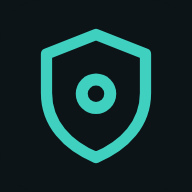
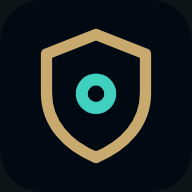
Design aux couleurs du client LoL (or hextech, bleu abysse)
Claude-Session: https://claude.ai/code/session_01Hp4PGG5JkqxKGNCX4NxKJy

Changed region(s): [[0.1875, 0.1562, 0.8125, 0.8438]]

diff --git a/index.html b/index.html
@@ -4,7 +4,7 @@
 <meta charset="utf-8">
 <meta name="viewport" content="width=device-width, initial-scale=1, viewport-fit=cover">
 <title>Coach Support</title>
-<meta name="theme-color" content="#0d1418">
+<meta name="theme-color" content="#010a13">
 <meta name="apple-mobile-web-app-capable" content="yes">
 <meta name="apple-mobile-web-app-status-bar-style" content="black-translucent">
 <meta name="apple-mobile-web-app-title" content="Coach Support">
@@ -13,16 +13,16 @@
 <link rel="apple-touch-icon" href="icon-192.png">
 <link rel="preconnect" href="https://fonts.googleapis.com">
 <link rel="preconnect" href="https://fonts.gstatic.com" crossorigin>
-<link rel="stylesheet" href="https://fonts.googleapis.com/css2?family=Barlow+Condensed:wght@500;600;700&family=Barlow:wght@400;500;600&display=swap">
+<link rel="stylesheet" href="https://fonts.googleapis.com/css2?family=Cinzel:wght@600;700;800&family=Barlow:wght@400;500;600&display=swap">
 <style>
-/* Layout: one-column phone app, sticky header, content cards, fixed bottom tab bar. Dark "vision" palette: deep teal-black ground, ward-teal accent, control-ward pink for danger, gold for objectives. */
+/* Layout: one-column phone app, sticky header, content cards, fixed bottom tab bar. Palette of the game client: abyss blue-black ground, hextech gold frames and titles, hextech teal for wards and actions. */
 :root{
-  --bg:#0d1418; --bg2:#121c21; --card:#16232a; --card2:#1c2c34; --line:#25363f;
-  --fg:#e6eef0; --mute:#8ea3ab; --dim:#5d727b;
-  --ward:#3fd0c0; --ward-ink:#062a27; --gold:#e3b55a; --pink:#ff5d8f; --good:#5fd38a; --bad:#ff6b5e; --warn:#f2b14a;
-  --display:"Barlow Condensed","Arial Narrow",system-ui,sans-serif;
+  --bg:#010a13; --bg2:#091428; --card:#0a1428; --card2:#1e2328; --line:#3c3c41; --gline:#785a28;
+  --fg:#f0e6d2; --mute:#a09b8c; --dim:#6b6a63;
+  --ward:#0ac8b9; --ward-ink:#010a13; --gold:#c8aa6e; --gold2:#f0e6d2; --pink:#e84057; --good:#0acbe6; --bad:#e84057; --warn:#c8aa6e;
+  --display:"Cinzel","Marcellus SC",Georgia,serif;
   --body:"Barlow",system-ui,-apple-system,"Segoe UI",Roboto,sans-serif;
-  --r:12px;
+  --r:4px;
   color-scheme:dark;
 }
 *{box-sizing:border-box}
@@ -53,19 +53,19 @@ p{margin:0}
 
 /* tab bar */
 nav.tabs{position:fixed;left:0;right:0;bottom:0;z-index:30;background:var(--bg2);border-top:1px solid var(--line);display:grid;grid-template-columns:repeat(5,1fr);padding:6px max(6px,env(safe-area-inset-right,0px)) calc(6px + env(safe-area-inset-bottom,0px)) max(6px,env(safe-area-inset-left,0px))}
-nav.tabs button{background:none;border:0;display:flex;flex-direction:column;align-items:center;gap:3px;padding:6px 2px;border-radius:10px;color:var(--dim);font:600 12px/1 var(--display);letter-spacing:.06em;text-transform:uppercase}
+nav.tabs button{background:none;border:0;display:flex;flex-direction:column;align-items:center;gap:3px;padding:6px 2px;border-radius:4px;color:var(--dim);font:600 12px/1 var(--display);letter-spacing:.06em;text-transform:uppercase}
 nav.tabs button svg{width:22px;height:22px}
 nav.tabs button[aria-selected="true"]{color:var(--ward);background:rgba(63,208,192,.08)}
 
 /* buttons, inputs */
-.btn{border:1px solid var(--line);background:var(--card2);border-radius:10px;padding:10px 14px;font-weight:600;min-height:44px}
+.btn{border:1px solid var(--line);background:var(--card2);border-radius:4px;padding:10px 14px;font-weight:600;min-height:44px}
 .btn.primary{background:var(--ward);border-color:var(--ward);color:var(--ward-ink)}
 .btn.ghost{background:none}
-.btn.small{min-height:34px;padding:6px 10px;font-size:13px}
+.btn.small{min-height:38px;padding:6px 10px;font-size:12px}
 .btn:focus-visible,input:focus-visible,select:focus-visible,.slot:focus-visible,.pick:focus-visible{outline:2px solid var(--ward);outline-offset:2px}
-input[type=text],input[type=url],input[type=search],select{background:var(--bg2);border:1px solid var(--line);border-radius:10px;padding:10px 12px;min-height:44px;width:100%}
+input[type=text],input[type=url],input[type=search],select{background:var(--bg2);border:1px solid var(--line);border-radius:4px;padding:10px 12px;min-height:44px;width:100%}
 label.f{display:flex;flex-direction:column;gap:6px;font-size:13px;color:var(--mute)}
-.seg{display:inline-flex;background:var(--bg2);border:1px solid var(--line);border-radius:10px;padding:3px}
+.seg{display:inline-flex;background:var(--bg2);border:1px solid var(--line);border-radius:4px;padding:3px}
 .seg button{border:0;background:none;padding:7px 12px;border-radius:8px;font-weight:600;color:var(--mute)}
 .seg button[aria-pressed="true"]{background:var(--card2);color:var(--fg)}
 .side-blue[aria-pressed="true"]{color:#6fb4ff!important}
@@ -73,7 +73,7 @@ label.f{display:flex;flex-direction:column;gap:6px;font-size:13px;color:var(--mu
 
 /* champion slots */
 .slots{display:grid;grid-template-columns:repeat(5,1fr);gap:8px}
-.slot{background:var(--bg2);border:1px dashed var(--line);border-radius:10px;padding:6px 2px;display:flex;flex-direction:column;align-items:center;gap:4px;min-width:0}
+.slot{background:var(--bg2);border:1px dashed var(--line);border-radius:4px;padding:6px 2px;display:flex;flex-direction:column;align-items:center;gap:4px;min-width:0}
 .slot.filled{border-style:solid}
 .slot .ic{width:44px;height:44px;border-radius:8px;background:var(--card2);display:grid;place-items:center;color:var(--dim);font-size:20px;overflow:hidden}
 .slot .ic img{width:100%;height:100%;object-fit:cover}
@@ -83,7 +83,7 @@ label.f{display:flex;flex-direction:column;gap:6px;font-size:13px;color:var(--mu
 
 /* ranking */
 .rank{display:flex;flex-direction:column;gap:8px}
-.ritem{display:grid;grid-template-columns:48px 1fr auto;gap:10px;align-items:center;background:var(--bg2);border:1px solid var(--line);border-radius:10px;padding:8px}
+.ritem{display:grid;grid-template-columns:48px 1fr auto;gap:10px;align-items:center;background:var(--bg2);border:1px solid var(--line);border-radius:4px;padding:8px}
 .ritem.top1{border-color:var(--ward)}
 .ritem img,.ritem .ph{width:48px;height:48px;border-radius:8px;object-fit:cover;background:var(--card2)}
 .ritem .nm{font:600 17px/1.1 var(--display);letter-spacing:.02em}
@@ -104,7 +104,7 @@ details.why-more ul{margin:6px 0 0;padding-left:18px;font-size:12px;color:var(--
 ul.tips{margin:0;padding-left:18px;display:flex;flex-direction:column;gap:6px}
 ul.tips li{padding-left:2px}
 .items{display:flex;flex-wrap:wrap;gap:8px}
-.item{display:flex;align-items:center;gap:8px;background:var(--bg2);border:1px solid var(--line);border-radius:10px;padding:6px 10px 6px 6px;font-size:13px;min-width:0}
+.item{display:flex;align-items:center;gap:8px;background:var(--bg2);border:1px solid var(--line);border-radius:4px;padding:6px 10px 6px 6px;font-size:13px;min-width:0}
 .item img{width:34px;height:34px;border-radius:6px}
 .item small{display:block;color:var(--dim);font-size:11px}
 .steps{display:flex;align-items:center;gap:6px;flex-wrap:wrap}
@@ -112,7 +112,7 @@ ul.tips li{padding-left:2px}
 
 /* botlane verdict */
 .phases{display:grid;grid-template-columns:repeat(3,1fr);gap:8px}
-.phase{background:var(--bg2);border:1px solid var(--line);border-radius:10px;padding:10px;text-align:center}
+.phase{background:var(--bg2);border:1px solid var(--line);border-radius:4px;padding:10px;text-align:center}
 .phase b{display:block;font:700 18px/1.1 var(--display);text-transform:uppercase}
 .phase small{color:var(--dim);font-size:11px;text-transform:uppercase;letter-spacing:.06em}
 .phase.adv{border-color:rgba(95,211,138,.5)} .phase.adv b{color:var(--good)}
@@ -139,7 +139,7 @@ ul.tips li{padding-left:2px}
 .ev.obj .dot i{border-color:var(--gold)}
 .ev.danger .dot i{border-color:var(--pink)}
 .ev.lane .dot i{border-color:#8aa4ff}
-.ev .body{background:var(--card);border:1px solid var(--line);border-radius:10px;padding:9px 11px;min-width:0}
+.ev .body{background:var(--card);border:1px solid var(--line);border-radius:4px;padding:9px 11px;min-width:0}
 .ev .body b{font:600 16px/1.2 var(--display);letter-spacing:.02em;display:block}
 .ev .body p{font-size:13px;color:var(--mute);margin-top:3px}
 .ev .kind{font:600 10px/1 var(--display);letter-spacing:.1em;text-transform:uppercase;color:var(--dim)}
@@ -153,11 +153,11 @@ ul.tips li{padding-left:2px}
 
 /* map */
 .mapwrap{display:grid;grid-template-columns:minmax(0,180px) 1fr;gap:12px;align-items:start}
-.mapwrap svg{width:100%;height:auto;border-radius:10px;background:#0f2a22}
+.mapwrap svg{width:100%;height:auto;border-radius:4px;background:#0f2a22}
 @media (max-width:420px){.mapwrap{grid-template-columns:132px 1fr;gap:10px}}
 
 /* alert banner */
-.alert{position:fixed;left:max(12px,env(safe-area-inset-left,0px));right:max(12px,env(safe-area-inset-right,0px));top:calc(env(safe-area-inset-top,0px) + 10px);z-index:60;background:var(--pink);color:#2a0712;border-radius:14px;padding:14px 16px;box-shadow:0 10px 30px rgba(0,0,0,.5);display:flex;gap:12px;align-items:flex-start;animation:pop .25s ease-out}
+.alert{position:fixed;left:max(12px,env(safe-area-inset-left,0px));right:max(12px,env(safe-area-inset-right,0px));top:calc(env(safe-area-inset-top,0px) + 10px);z-index:60;background:var(--pink);color:#2a0712;border-radius:4px;padding:14px 16px;box-shadow:0 10px 30px rgba(0,0,0,.5);display:flex;gap:12px;align-items:flex-start;animation:pop .25s ease-out}
 .alert.ward{background:var(--ward);color:var(--ward-ink)}
 .alert.obj{background:var(--gold);color:#2b1d02}
 .alert b{font:700 20px/1.1 var(--display);text-transform:uppercase;display:block}
@@ -170,12 +170,12 @@ ul.tips li{padding-left:2px}
 .modal{position:fixed;inset:0;z-index:50;background:rgba(5,9,11,.75);display:flex;align-items:flex-end;justify-content:center}
 .sheet{background:var(--bg2);border-top-left-radius:18px;border-top-right-radius:18px;width:100%;max-width:720px;max-height:88vh;display:flex;flex-direction:column;padding:14px max(16px,env(safe-area-inset-right,0px)) calc(14px + env(safe-area-inset-bottom,0px)) max(16px,env(safe-area-inset-left,0px));gap:10px}
 .sheet .grid{overflow-y:auto;display:grid;grid-template-columns:repeat(auto-fill,minmax(64px,1fr));gap:8px;padding:2px}
-.pick{background:none;border:1px solid transparent;border-radius:10px;padding:4px 2px;display:flex;flex-direction:column;align-items:center;gap:3px;font-size:11px;min-width:0}
+.pick{background:none;border:1px solid transparent;border-radius:4px;padding:4px 2px;display:flex;flex-direction:column;align-items:center;gap:3px;font-size:11px;min-width:0}
 .pick img{width:52px;height:52px;border-radius:8px;background:var(--card2)}
 .pick span{max-width:100%;overflow:hidden;text-overflow:ellipsis;white-space:nowrap}
 .pick.on{border-color:var(--ward);background:rgba(63,208,192,.1)}
 .pick.on span{color:var(--ward)}
-.toast{position:fixed;left:50%;transform:translateX(-50%);bottom:calc(84px + env(safe-area-inset-bottom,0px));z-index:70;background:var(--card2);border:1px solid var(--line);border-radius:10px;padding:10px 14px;font-size:14px;max-width:calc(100% - 32px)}
+.toast{position:fixed;left:50%;transform:translateX(-50%);bottom:calc(84px + env(safe-area-inset-bottom,0px));z-index:70;background:var(--card2);border:1px solid var(--line);border-radius:4px;padding:10px 14px;font-size:14px;max-width:calc(100% - 32px)}
 .empty{text-align:center;color:var(--mute);padding:18px 8px;font-size:14px}
 .note{font-size:12px;color:var(--dim)}
 .status{font-size:13px;color:var(--mute)}
@@ -183,6 +183,56 @@ ul.tips li{padding-left:2px}
 .status.ok{color:var(--good)}
 .pool-grid{display:grid;grid-template-columns:repeat(auto-fill,minmax(64px,1fr));gap:8px}
 code{background:var(--bg2);padding:1px 5px;border-radius:5px;font-size:12px}
+
+/* Habillage client LoL */
+body{background:radial-gradient(120% 60% at 50% 0%,#0a1e33 0%,var(--bg) 60%) fixed,var(--bg)}
+header.top{background:linear-gradient(180deg,#0a1428,#010a13);border-bottom:1px solid transparent;border-image:linear-gradient(90deg,transparent,var(--gline),var(--gold),var(--gline),transparent) 1}
+header.top h1{font-weight:800;color:var(--gold2);letter-spacing:.06em;font-size:20px}
+header.top h1 span{color:var(--gold)}
+.patch{border-color:var(--gline);color:var(--gold);border-radius:2px}
+h2{color:var(--gold2);font-weight:800;letter-spacing:.05em;font-size:21px}
+h3{color:var(--gold);font-size:13px;letter-spacing:.1em;font-weight:700}
+.card{background:linear-gradient(180deg,rgba(30,35,40,.92),rgba(10,20,40,.92));border:1px solid var(--gline);box-shadow:inset 0 0 0 1px rgba(1,10,19,.6),0 0 18px rgba(0,0,0,.35);position:relative}
+.card::before{content:"";position:absolute;left:10px;right:10px;top:-1px;height:1px;background:linear-gradient(90deg,transparent,var(--gold),transparent)}
+.btn{background:linear-gradient(180deg,#1e2328,#141a20);border:1px solid var(--gline);color:var(--gold2);text-transform:uppercase;letter-spacing:.06em;font-size:13px;font-weight:600}
+.btn:active{filter:brightness(1.2)}
+.btn.primary{background:linear-gradient(180deg,#0b3a44,#091428);border:2px solid var(--ward);color:#cdfafa;box-shadow:0 0 12px rgba(10,200,185,.25),inset 0 0 10px rgba(10,200,185,.2)}
+.btn.ghost{background:transparent}
+nav.tabs{background:linear-gradient(180deg,#0a1428,#010a13);border-top:1px solid var(--gline)}
+nav.tabs button{font-family:var(--display);font-size:10px;letter-spacing:.08em;color:var(--dim)}
+nav.tabs button[aria-selected="true"]{color:var(--gold);background:linear-gradient(180deg,rgba(200,170,110,.14),transparent);box-shadow:inset 0 2px 0 var(--gold)}
+.slot{background:#010a13;border-color:var(--line)}
+.slot.filled{border-color:var(--gline)}
+.slot .ic{border:1px solid var(--gline);border-radius:50%}
+.slot.me{border-color:var(--ward);box-shadow:0 0 10px rgba(10,200,185,.25)}
+.slot .lbl{font-family:var(--body);font-weight:600;letter-spacing:.1em}
+.ritem{background:rgba(1,10,19,.7);border-color:var(--line)}
+.ritem.top1{border-color:var(--gold);box-shadow:0 0 14px rgba(200,170,110,.25)}
+.ritem img,.ritem .ph{border:1px solid var(--gline);border-radius:50%}
+.ritem .nm{color:var(--gold2)}
+.pct{color:var(--gold)}
+.bar i{background:linear-gradient(90deg,var(--gline),var(--gold))}
+.tier{background:transparent;border:1px solid var(--gline);border-radius:2px}
+.phase,.item,.chip{background:rgba(1,10,19,.7)}
+.phase b{font-size:15px}
+.item img{border:1px solid var(--gline);border-radius:2px}
+.chip{border-radius:2px}
+.clock{background:linear-gradient(180deg,#1e2328,#0a1428);border-color:var(--gline)}
+.clock .t{color:var(--gold2);font-family:"Barlow",sans-serif;font-weight:600}
+.ev .tm{font-family:"Barlow",sans-serif;font-weight:600}
+.ev .body{background:rgba(10,20,40,.85);border-color:var(--line)}
+.ev .body b{color:var(--gold2);font-family:var(--body);font-weight:600;font-size:15px}
+.ev .dot i{transform:rotate(45deg);border-radius:2px;width:12px;height:12px}
+.ev .dot::before{background:linear-gradient(var(--gline),var(--line))}
+.seg{border-color:var(--gline);border-radius:2px}
+.seg button{border-radius:2px;text-transform:uppercase;font-size:12px;letter-spacing:.06em}
+input[type=text],input[type=url],input[type=search],select{background:#010a13;border-color:var(--gline);border-radius:2px}
+.sheet{background:linear-gradient(180deg,#0a1428,#010a13);border-top:1px solid var(--gold)}
+.pick img{border:1px solid var(--gline);border-radius:50%}
+.pick.on{border-color:var(--gold);background:rgba(200,170,110,.12)}
+.pick.on span{color:var(--gold)}
+.alert{border:2px solid var(--gold2)}
+.toast{border-color:var(--gline)}
 </style>
 </head>
 <body>
@@ -264,10 +314,10 @@ code{background:var(--bg2);padding:1px 5px;border-radius:5px;font-size:12px}
       <div class="next grow" id="clockNext">Lance le chrono au début de la partie (ou charge ta partie en direct pour le caler tout seul).</div>
     </div>
     <div class="row">
-      <button class="btn primary" id="btnStart">Démarrer à 0:00</button>
-      <button class="btn" id="btnMinus">−10 s</button>
-      <button class="btn" id="btnPlus">+10 s</button>
-      <button class="btn ghost" id="btnStop">Stop</button>
+      <button class="btn primary small" id="btnStart">Démarrer</button>
+      <button class="btn small" id="btnMinus">−10 s</button>
+      <button class="btn small" id="btnPlus">+10 s</button>
+      <button class="btn small ghost" id="btnStop">Stop</button>
     </div>
     <div class="row">
       <span class="note">Côté :</span>

diff --git a/sw.js b/sw.js
@@ -1,5 +1,5 @@
 // Coach Support — service worker : app hors-ligne, méta toujours rafraîchie, images Data Dragon en cache.
-const SHELL = 'cs-shell-v2', IMG = 'cs-img-v1';
+const SHELL = 'cs-shell-v3', IMG = 'cs-img-v1';
 const FILES = ['./', 'index.html', 'app.js', 'meta.json', 'manifest.webmanifest', 'icon.svg', 'icon-192.png', 'icon-512.png'];
 self.addEventListener('install', e => { e.waitUntil(caches.open(SHELL).then(c => c.addAll(FILES)).then(() => self.skipWaiting())); });
 self.addEventListener('activate', e => { e.waitUntil(caches.keys().then(ks => Promise.all(ks.filter(k => ![SHELL, IMG].includes(k)).map(k => caches.delete(k)))).then(() => self.clients.claim())); });
